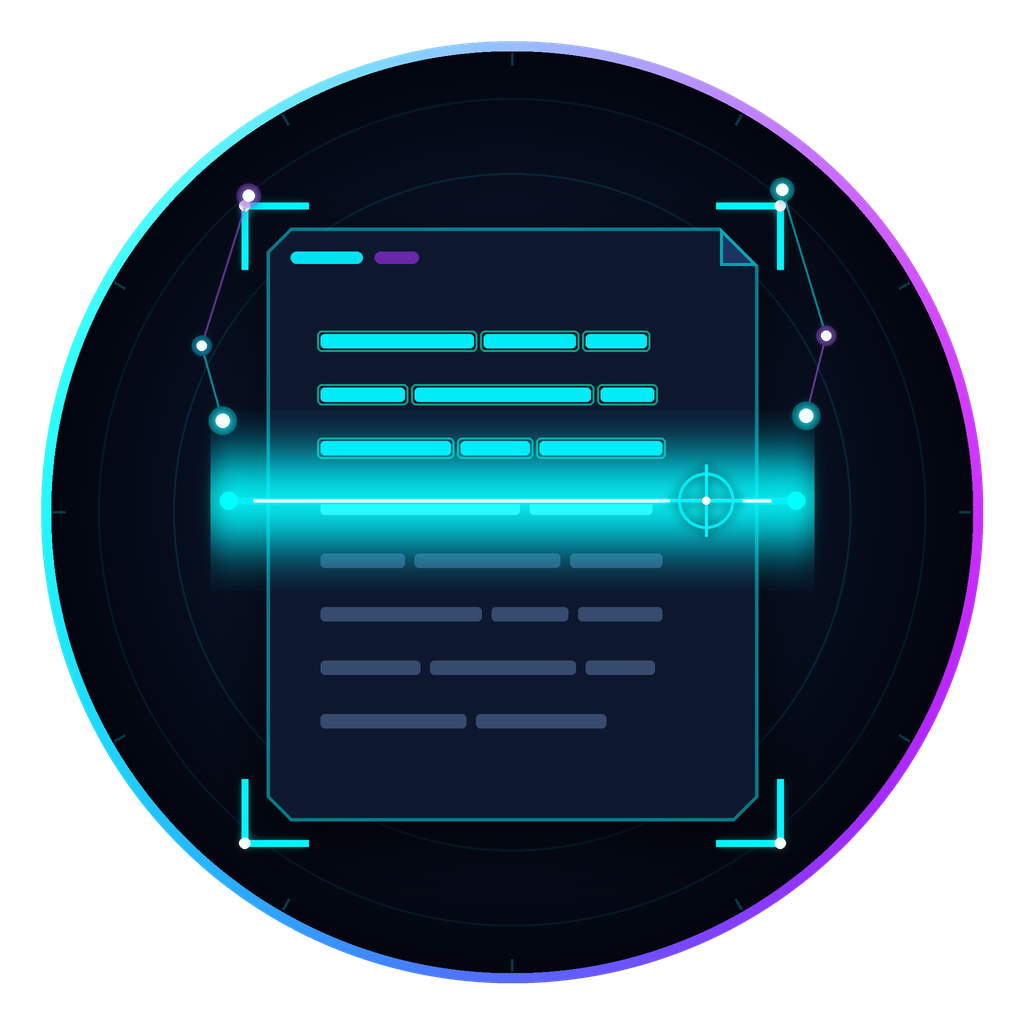
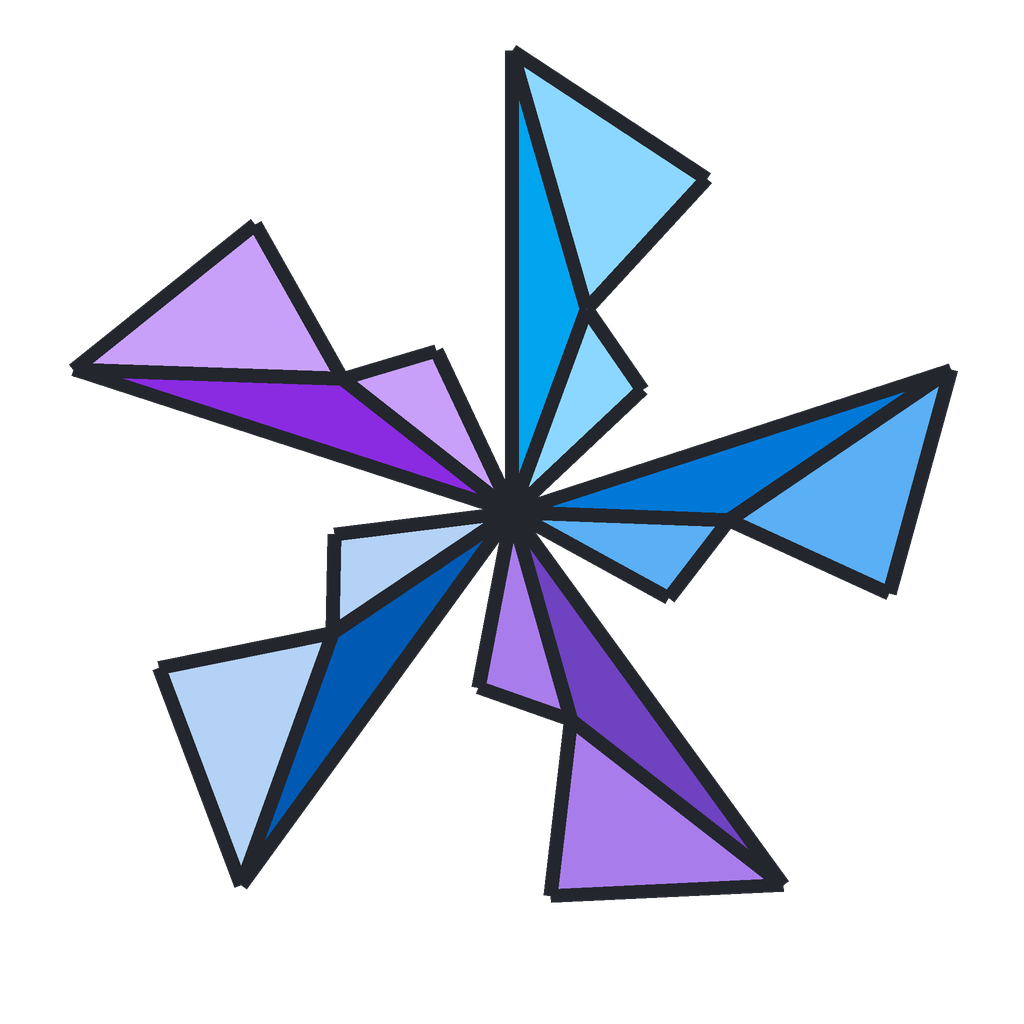
updates

diff --git a/README.md b/README.md
@@ -1,6 +1,6 @@
 <div align="center">
 
-<img src="src/EasyOcrSharp/Assets/icon.gif" alt="EasyOcrSharp" width="120" height="120">
+<img src="https://raw.githubusercontent.com/easyocrsharp/EasyOcrSharp/main/src/EasyOcrSharp/Assets/icon.png" alt="EasyOcrSharp" width="120" height="120">
 
 # EasyOcrSharp
 
@@ -8,7 +8,7 @@
 
 [![NuGet](https://img.shields.io/nuget/v/EasyOcrSharp.svg?label=NuGet&color=004880&logo=nuget)](https://www.nuget.org/packages/EasyOcrSharp)
 [![Downloads](https://img.shields.io/nuget/dt/EasyOcrSharp.svg?label=Downloads&color=success)](https://www.nuget.org/packages/EasyOcrSharp)
-[![License: MIT](https://img.shields.io/badge/License-MIT-blue.svg)](LICENSE)
+[![License: MIT](https://img.shields.io/badge/License-MIT-blue.svg)](https://github.com/easyocrsharp/EasyOcrSharp/blob/main/LICENSE)
 [![.NET 10](https://img.shields.io/badge/.NET-10.0-512BD4.svg?logo=dotnet)](https://dotnet.microsoft.com/)
 [![AOT ready](https://img.shields.io/badge/Native%20AOT-ready-6f42c1.svg)](#gpu--execution-providers)
 
@@ -967,7 +967,7 @@ and accepts the same tuning as the library (`--allowlist`, `--min-confidence`, `
 
 ### 🌐 Web service sample
 
-[`samples/EasyOcrSharp.WebApi`](samples/EasyOcrSharp.WebApi) is a runnable ASP.NET Core service —
+[`samples/EasyOcrSharp.WebApi`](https://github.com/easyocrsharp/EasyOcrSharp/blob/main/samples/EasyOcrSharp.WebApi) is a runnable ASP.NET Core service —
 `POST /ocr`, `POST /ocr/pdf`, `GET /health` and a browser upload page — with bounded concurrency,
 upload limits, problem-details errors and a Dockerfile that already includes the native prerequisites
 PDFium and ONNX Runtime need.
@@ -1080,7 +1080,7 @@ dotnet run --project test/EasyOcrSharp.Demo
 The integration tests exercise every feature against the **real** engine (allow/block-lists,
 detection-only, exporters, batch, metrics/tracing, health check, execution-provider fallback, and the
 full PDF pipeline) — no mocks. The **PDF** tests need two small fixtures you generate yourself; they're
-**skipped** (never failed) until present. See [test/assets/pdf/README.md](test/assets/pdf/README.md)
+**skipped** (never failed) until present. See [test/assets/pdf/README.md](https://github.com/easyocrsharp/EasyOcrSharp/blob/main/test/assets/pdf/README.md)
 for the exact one-page and three-page PDFs to drop in.
 
 | Path | Purpose |
@@ -1095,7 +1095,7 @@ for the exact one-page and three-page PDFs to drop in.
 | `tools/` | maintainer-only ONNX export + quantization scripts |
 
 CI (GitHub Actions) builds and runs the unit tests on Linux and Windows for every push and PR.
-See [CHANGELOG.md](CHANGELOG.md) for release history.
+See [CHANGELOG.md](https://github.com/easyocrsharp/EasyOcrSharp/blob/main/CHANGELOG.md) for release history.
 
 <br>
 
@@ -1113,6 +1113,39 @@ additional language/model coverage, documentation, and tests are all appreciated
 If you're working on something larger, or want to collaborate on a feature, feel free to reach out
 before starting so we can align on the approach.
 
+## 💖 Support
+
+If EasyOcrSharp saves you time, consider supporting development:
+
+- 💳 **PayPal** — [paypal.me/FarhanLodi](https://paypal.me/FarhanLodi)
+- 📱 **UPI (India)** — `farhanlodi5@oksbi`
+- 🏦 **Bank transfer (USD)** — details below
+
+<details>
+<summary><b>USD bank transfer details (Wise)</b></summary>
+
+<br>
+
+USD account details for Farhan Lodi on Wise. Sending from a bank in the US? Use these details for a
+domestic transfer. Sending from anywhere else? Make an international SWIFT transfer.
+
+| Field | Value |
+|---|---|
+| Name | Farhan Lodi |
+| Account type | Deposit |
+| Routing number (wire and ACH) | `084009519` |
+| Account number | `420927686563885` |
+| SWIFT/BIC | `TRWIUS35XXX` |
+| Bank address | Wise US Inc, 108 W 13th St, Wilmington, DE, 19801, United States |
+
+Use the routing and account numbers when sending from the US, and the SWIFT/BIC when sending from
+outside the US.
+
+</details>
+
+📧 Need more details, a different payment method, or have a question? Email
+[farhanlodi31@gmail.com](mailto:farhanlodi31@gmail.com).
+
 ## 📬 Contact
 
 For work inquiries, collaboration, feature requests, or any questions, reach out to:
@@ -1121,7 +1154,7 @@ For work inquiries, collaboration, feature requests, or any questions, reach out
 
 ## 📄 License
 
-MIT — see [LICENSE](LICENSE). EasyOCR (the upstream model authors) is also MIT-licensed.
+MIT — see [LICENSE](https://github.com/easyocrsharp/EasyOcrSharp/blob/main/LICENSE). EasyOCR (the upstream model authors) is also MIT-licensed.
 
 ## 🙏 Acknowledgments
 
